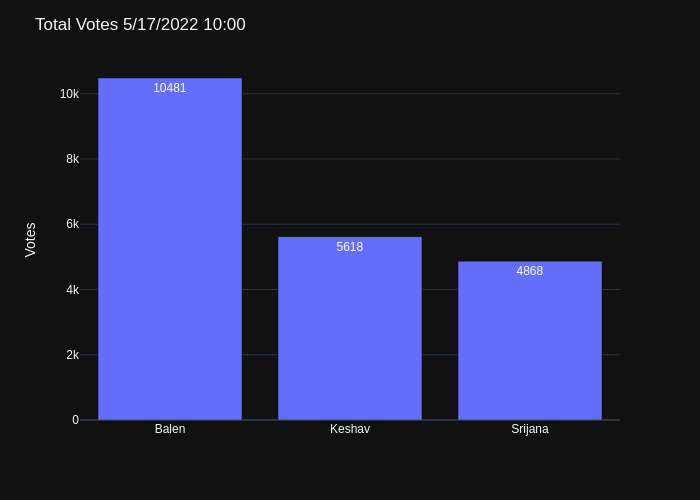
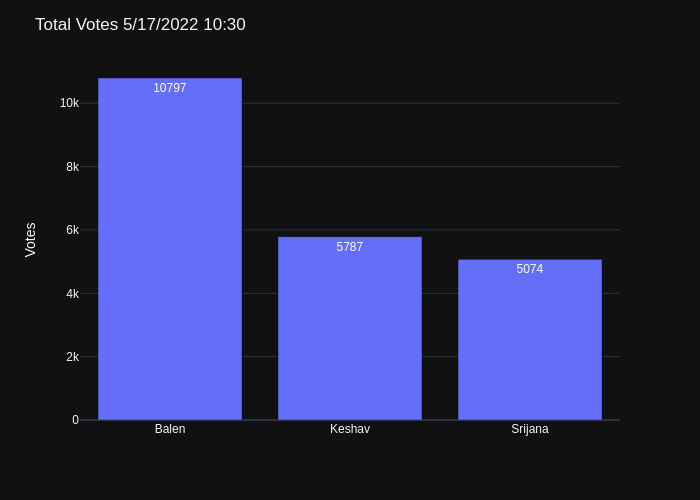
minor change

diff --git a/README.md b/README.md
@@ -1,4 +1,4 @@
-## Last Update: 5/17/2022 10:00
+## Last Update: 5/17/2022 10:30
 
 ## Balen's Lead against Keshav Sthapit and Srijana Singh
 ![ScreenShot](final.jpg)
